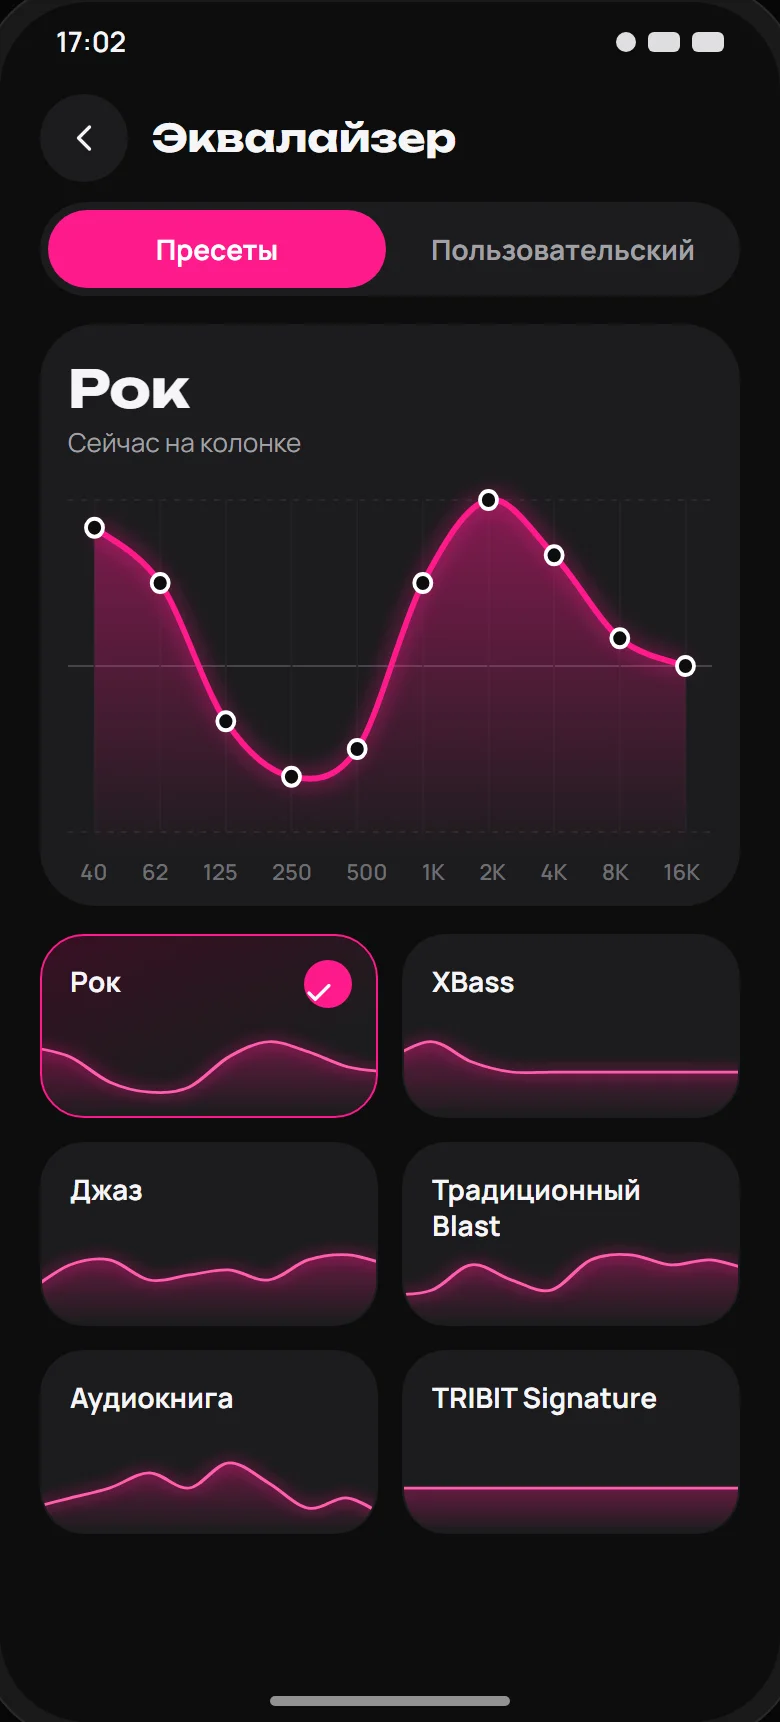
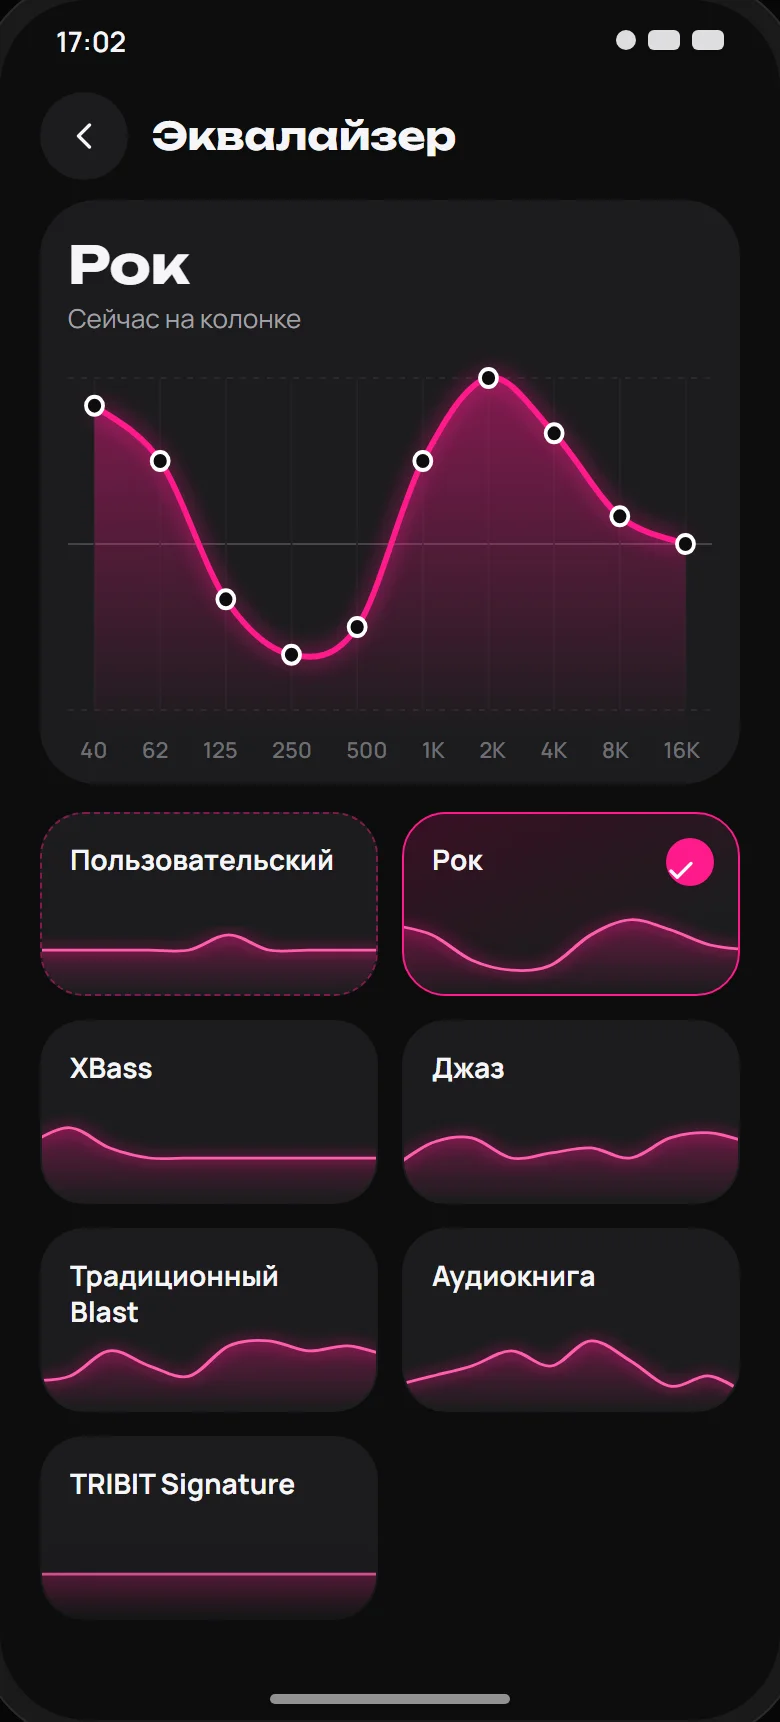
design: the owner picked A for both screens (interview 003) - home: big Pause from C, sections as full-width strips, the EQ strip shows the preset's response; EQ: no tabs, the custom EQ is the first card

diff --git a/design/mockups-v1.html b/design/mockups-v1.html
@@ -94,12 +94,12 @@
   .vol .num { font: 700 17px var(--head); min-width: 30px; text-align: right; font-variant-numeric: tabular-nums; }
 
   /* ============ A: «Сцена» ============ */
-  .a-hero { position: relative; height: 210px; display: grid; place-items: center; flex: none; margin: -4px -20px 0; }
+  .a-hero { position: relative; height: 180px; display: grid; place-items: center; flex: none; margin: -4px -20px 0; }
   .a-hero::before { content: ''; position: absolute; left: 50%; top: 52%; width: 360px; height: 230px; transform: translate(-50%, -50%);
     background: radial-gradient(closest-side, rgba(255,26,140,.32), rgba(255,26,140,.08) 60%, transparent); }
   .a-hero::after { content: ''; position: absolute; left: 50%; bottom: 14px; width: 280px; height: 30px; transform: translateX(-50%);
     background: radial-gradient(closest-side, rgba(255,26,140,.35), transparent); border-radius: 50%; }
-  .a-hero svg { width: 290px; position: relative; z-index: 1; }
+  .a-hero svg { width: 250px; position: relative; z-index: 1; }
   .a-name { text-align: center; margin-top: -6px; }
   .a-name h3 { font: 700 20px var(--head); }
   .a-name .pills { display: flex; justify-content: center; gap: 8px; margin-top: 10px; }
@@ -113,6 +113,13 @@
   .a-tile h4 { font: 700 14px/1.25 var(--font); }
   .a-tile small { font: 500 12px var(--font); color: var(--sub); display: block; margin-top: 2px; }
   .a-tile svg.spark { position: absolute; right: 10px; top: 14px; width: 74px; height: 34px; }
+  .a-strip { background: var(--card); border-radius: 22px; padding: 12px 14px 12px 12px; flex: none; }
+  .a-strip .head { display: flex; align-items: center; gap: 12px; }
+  .a-strip .t { flex: 1; font: 700 15px var(--font); min-width: 0; }
+  .a-strip .t small { display: block; font: 500 12px var(--font); color: var(--sub); margin-top: 2px; white-space: nowrap; overflow: hidden; text-overflow: ellipsis; }
+  .a-strip svg.resp { width: 100%; height: 62px; display: block; margin-top: 8px; }
+  .bands.mini { font-size: 10px; padding: 0 2px; margin-top: 2px; }
+  .a-strip .a-light { position: static; flex: none; }
   .a-light { position: absolute; right: 14px; top: 20px; width: 64px; height: 8px; border-radius: 4px;
     background: linear-gradient(90deg, #FF1A8C, #8a5cff, #18c8ff); box-shadow: 0 0 14px rgba(255,26,140,.6); }
 
@@ -125,6 +132,9 @@
   .a-preset { height: 92px; border-radius: 22px; background: var(--card); position: relative; overflow: hidden; padding: 14px; border: 1.5px solid transparent; }
   .a-preset svg { position: absolute; left: 0; right: 0; bottom: 0; width: 100%; height: 44px; }
   .a-preset span { position: relative; font: 700 14px/1.25 var(--font); z-index: 1; display: block; max-width: 120px; }
+  .a-preset.custom { border: 1.5px dashed var(--pink-line); }
+  .a-preset .edit { position: absolute; right: 10px; top: 10px; width: 30px; height: 30px; border-radius: 10px; background: var(--pink-soft); color: var(--pink); display: grid; place-items: center; z-index: 2; }
+  .a-preset .edit .ic { width: 17px; height: 17px; }
   .a-preset.on { border-color: var(--pink); background: linear-gradient(160deg, rgba(255,26,140,.18), var(--card) 70%); }
   .tick { position: absolute; right: 12px; top: 12px; width: 24px; height: 24px; border-radius: 50%; background: var(--pink); color: #fff; display: grid; place-items: center; z-index: 2; }
   .tick .ic { width: 15px; height: 15px; stroke-width: 2.6; }
@@ -258,7 +268,7 @@
 
     <!-- A-home -->
     <div class="phone-wrap" data-id="A-home">
-      <div class="cap"><b>A</b><span>Сцена</span><p>Колонка в центре, как на экране устройства Tribit. Под колонкой плеер и четыре плитки разделов.</p></div>
+      <div class="cap"><b>A</b><span>Сцена · выбран</span><p>Колонка в центре, как на экране устройства Tribit. Большая «Пауза» из C; разделы полосами во всю ширину, у эквалайзера — АЧХ пресета (слово владельца 19:26).</p></div>
       <div class="screen">
         <div class="status"><span>17:01</span><div class="dots"><i></i><i></i><i></i></div></div>
         <div class="top"><div class="logo"><b>K</b>rinik Tribit</div><div class="icon-btn"><svg class="ic"><use href="#i-gear"/></svg></div></div>
@@ -269,19 +279,29 @@
             <div class="pills"><span class="pill"><i class="dot"></i>Подключена</span><span class="pill"><span class="batt"><i><b style="width:30%"></b></i></span>30 %</span></div>
           </div>
           <div class="a-player">
-            <div class="a-transport">
+            <div class="vol"><svg class="ic" style="color:var(--sub)"><use href="#i-vol"/></svg><div class="slider" data-v="10" data-max="31"></div><span class="num">10</span></div>
+            <div class="c-transport" style="margin-top:0">
               <div class="icon-btn big"><svg class="ic"><use href="#i-prev"/></svg></div>
-              <div class="a-play"><svg class="ic"><use href="#i-pause"/></svg></div>
+              <div class="btn primary"><svg class="ic"><use href="#i-pause"/></svg>Пауза</div>
               <div class="icon-btn big"><svg class="ic"><use href="#i-next"/></svg></div>
             </div>
-            <div class="vol"><svg class="ic" style="color:var(--sub)"><use href="#i-vol"/></svg><div class="slider" data-v="10" data-max="31"></div><span class="num">10</span></div>
           </div>
-          <div class="a-tiles">
-            <div class="a-tile"><div class="ico-box"><svg class="ic"><use href="#i-eq"/></svg></div><svg class="spark" data-db="10,6,-4,-8,-6,6,12,8,2,0"></svg><div><h4>Эквалайзер</h4><small>Рок</small></div></div>
-            <div class="a-tile"><div class="ico-box"><svg class="ic"><use href="#i-light"/></svg></div><i class="a-light"></i><div><h4>Подсветка</h4><small>Режим 1</small></div></div>
-            <div class="a-tile"><div class="ico-box"><svg class="ic"><use href="#i-sliders"/></svg></div><div><h4>Настройки колонки</h4><small>Таймер сна, подсказки</small></div></div>
-            <div class="a-tile"><div class="ico-box"><svg class="ic"><use href="#i-file"/></svg></div><div><h4>Файл настроек</h4><small>Сохранить, открыть</small></div></div>
+          <!-- Sections as full-width strips (owner 19:26): more information per row, the EQ strip shows the preset's response. -->
+          <div class="a-strip eq">
+            <div class="head"><div class="ico-box"><svg class="ic"><use href="#i-eq"/></svg></div><div class="t">Эквалайзер<small>Рок</small></div><svg class="ic chev"><use href="#i-chev"/></svg></div>
+            <svg class="resp" data-db="10,6,-4,-8,-6,6,12,8,2,0" viewBox="0 0 320 70" preserveAspectRatio="none"></svg>
+            <div class="bands mini"><span>40</span><span>62</span><span>125</span><span>250</span><span>500</span><span>1K</span><span>2K</span><span>4K</span><span>8K</span><span>16K</span></div>
           </div>
+          <div class="a-strip">
+            <div class="head"><div class="ico-box"><svg class="ic"><use href="#i-light"/></svg></div><div class="t">Подсветка<small>Режим 1</small></div><i class="a-light"></i><svg class="ic chev"><use href="#i-chev"/></svg></div>
+          </div>
+          <div class="a-strip">
+            <div class="head"><div class="ico-box"><svg class="ic"><use href="#i-sliders"/></svg></div><div class="t">Настройки колонки<small>Автовыключение, таймер сна, подсказки, микрофон</small></div><svg class="ic chev"><use href="#i-chev"/></svg></div>
+          </div>
+          <div class="a-strip">
+            <div class="head"><div class="ico-box"><svg class="ic"><use href="#i-file"/></svg></div><div class="t">Файл настроек<small>Сохранить, открыть, поделиться</small></div><svg class="ic chev"><use href="#i-chev"/></svg></div>
+          </div>
+          <div class="fade"></div>
         </div>
         <div class="gesture"></div>
       </div>
@@ -369,12 +389,11 @@
 
     <!-- A-eq -->
     <div class="phone-wrap" data-id="A-eq">
-      <div class="cap"><b>A</b><span>Сцена</span><p>График кривой, как у Tribit. Вместо фото на карточке пресета нарисована его кривая.</p></div>
+      <div class="cap"><b>A</b><span>Сцена · выбран</span><p>График кривой, как у Tribit. Вместо фото на карточке пресета нарисована его кривая. Вкладок нет, «Пользовательский» — первая карточка списка (слово владельца 19:25).</p></div>
       <div class="screen">
         <div class="status"><span>17:02</span><div class="dots"><i></i><i></i><i></i></div></div>
         <div class="top"><div class="icon-btn"><svg class="ic"><use href="#i-back"/></svg></div><div class="title">Эквалайзер</div></div>
         <div class="body">
-          <div class="seg"><div class="on">Пресеты</div><div>Пользовательский</div></div>
           <div class="graph">
             <h3>Рок</h3>
             <div class="muted">Сейчас на колонке</div>
@@ -382,6 +401,7 @@
             <div class="bands"><span>40</span><span>62</span><span>125</span><span>250</span><span>500</span><span>1K</span><span>2K</span><span>4K</span><span>8K</span><span>16K</span></div>
           </div>
           <div class="a-presets">
+            <div class="a-preset custom"><span>Пользовательский</span><svg class="art" data-db="0,0,0,0,0,6,0,0,0,0"></svg></div>
             <div class="a-preset on"><span>Рок</span><div class="tick"><svg class="ic"><use href="#i-check"/></svg></div><svg class="art" data-db="10,6,-4,-8,-6,6,12,8,2,0"></svg></div>
             <div class="a-preset"><span>XBass</span><svg class="art" data-db="6,12,4,0,0,0,0,0,0,0"></svg></div>
             <div class="a-preset"><span>Джаз</span><svg class="art" data-db="-4,6,8,0,2,4,0,8,10,6"></svg></div>
@@ -459,6 +479,15 @@ function smooth(pts) {
 function points(db, w, h, padX, padY) {
   return db.map((v, i) => [padX + i * (w - 2 * padX) / (db.length - 1), h / 2 - v / RANGE * (h / 2 - padY)]);
 }
+
+// Frequency response on the home EQ strip: ±12 frame, 0 dB line, filled curve.
+document.querySelectorAll('svg.resp').forEach(s => {
+  const w = 320, h = 70, p = points(dbOf(s), w, h, 6, 6), d = smooth(p);
+  [6, h / 2, h - 6].forEach((y, i) => el('line', { x1: 0, x2: w, y1: y, y2: y, stroke: i === 1 ? '#45454b' : '#2a2a2e', 'stroke-dasharray': i === 1 ? '' : '3 4' }, s));
+  el('path', { d: `${d} L${p[p.length - 1][0]},${h} L${p[0][0]},${h} Z`, fill: 'url(#fillPink)' }, s);
+  el('path', { d, fill: 'none', stroke: '#FF1A8C', 'stroke-width': 6, opacity: .35, filter: 'url(#glow)' }, s);
+  el('path', { d, fill: 'none', stroke: '#FF1A8C', 'stroke-width': 2.5, 'stroke-linecap': 'round' }, s);
+});
 
 // Small sparkline (tiles, list rows).
 document.querySelectorAll('svg.spark').forEach(s => {

diff --git a/interviews/interview_003_design_variants.md b/interviews/interview_003_design_variants.md
@@ -3,7 +3,7 @@
 > Topic: выбор вида главного экрана и экрана эквалайзера своего приложения из трёх вариантов (лист макетов 1)
 > Source of the idea: ваши слова 2026-10-16 ≈ 19:1x +03:00 «давай макеты сверстаем» · «Ориентируемся на оригинальное приложение Tribit, но делаем ПО-СВОЕМУ, КРСИВО, ПЕРЕОСМЫСЛИВАЕМ!»
 > Created: 2026-10-16 19:19 +03:00
-> Status: ❓ waiting for the owner
+> Status: ✅ answered 2026-10-16 ≈ 19:25–19:26 +03:00 — Q1 = A (пауза из C, разделы полосами, АЧХ пресета), Q2 = A (без вкладок, «Пользовательский» первым)
 
 ## Context / что уже найдено
 
@@ -52,7 +52,9 @@ StormBox Blast 2 подключена, заряд 30 %, громкость 10 и
   - Проверка: снимок `design/mockups-v1/C-home.webp`.
 - **D) your own answer** — например, смесь: «A, но пресеты строкой из B».
 
-**Answer:**
+**Answer:** A с правками — «А за основу» · «кнопккккккку Пауза берём из C большую» · «Виджет эквввалайзера, подсветки,
+настройки колонки делаем не тайлами, а полосками во всю ширину, чтобы можно было уместить больше информации, показать АЧХ
+пресета экралайзера» · «переверстывай» (владелец, чат 2026-10-16 ≈ 19:26 +03:00). Применено в макете A-home.
 
 ### Q2. Какой экран эквалайзера?
 <!-- archaeology: search "главн|экран|вариа|макет|эквалайз" → 102 hits · read: interview_002 Q4 (EQ name up to 15 chars), plans/06 (EQ phase 2) · prior: unrelated — no prior choice of the EQ screen layout -->
@@ -82,4 +84,6 @@ StormBox Blast 2 подключена, заряд 30 %, громкость 10 и
   - Проверка: снимок `design/mockups-v1/C-eq.webp`.
 - **D) your own answer** —
 
-**Answer:**
+**Answer:** A с правкой — «Эквалайзер A Сцена» · «Пользовательский - первой кнопкой в списке, вверху не нужны табы»
+(владелец, чат 2026-10-16 ≈ 19:25 +03:00). Применено в макете A-eq: вкладок нет, карточка «Пользовательский» стоит первой
+в списке пресетов.
